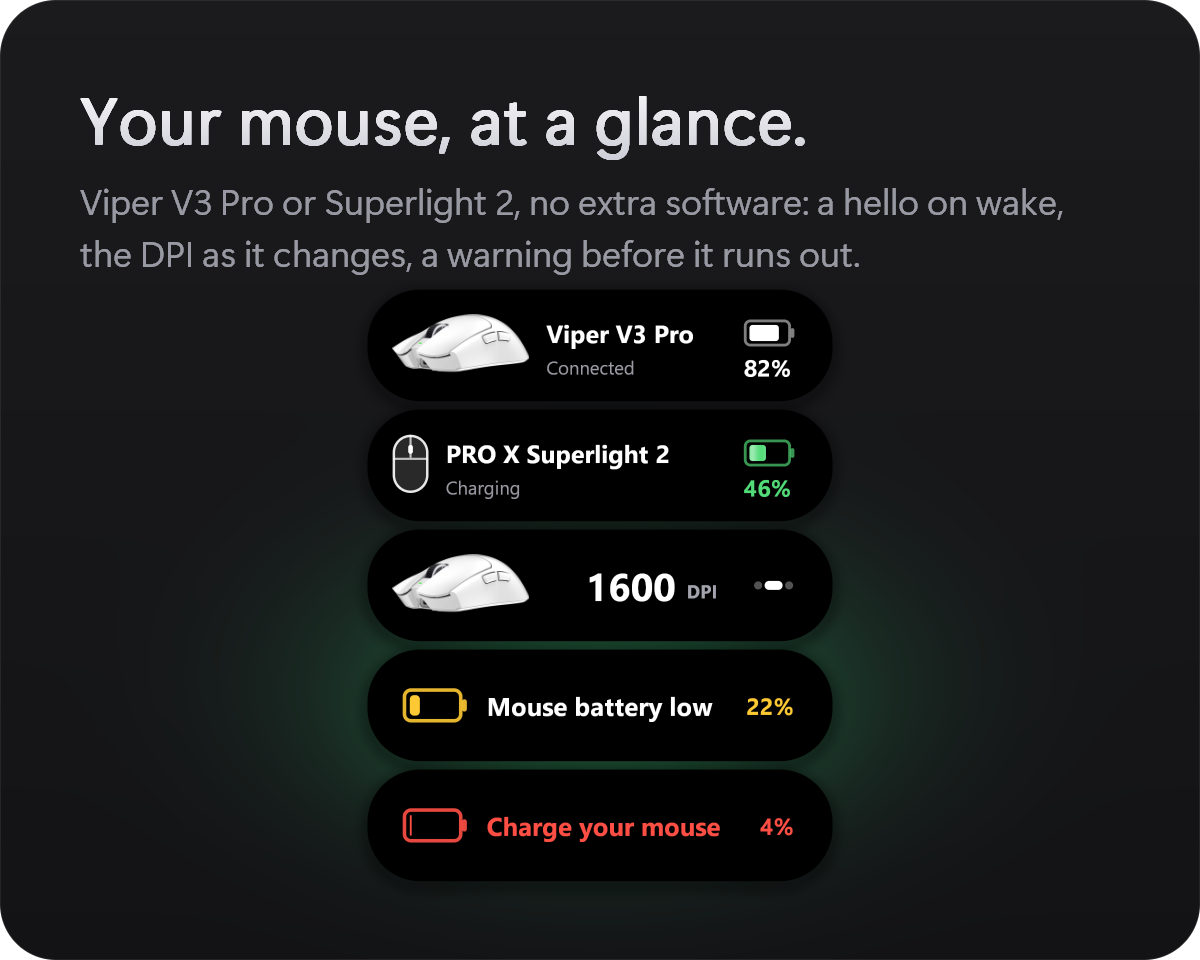
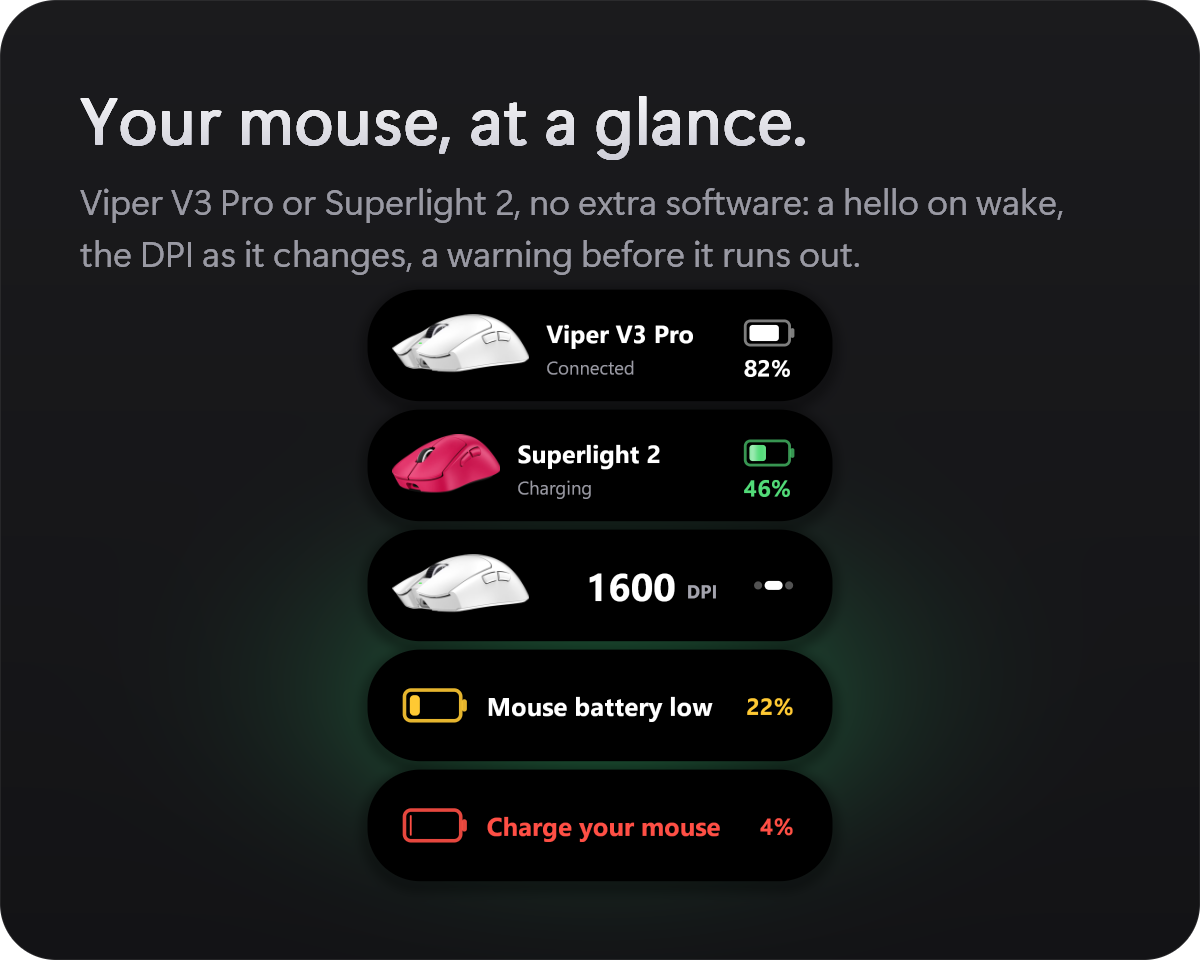
Superlight 2: its own photo (superlight2side) instead of a drawn mouse

Changed region(s): [[0.3083, 0.4375, 0.555, 0.5312]]

diff --git a/src/render.rs b/src/render.rs
@@ -316,30 +316,15 @@ fn picture_at(p: &mut Px, pic: &Picture, x: f32, y: f32, h: f32, unit: f32, alph
     }
 }
 
-/// How wide the mouse is drawn at height `h`: its picture, or the drawn mouse.
+/// How wide the mouse's picture is at height `h`.
 fn art_width(m: &MouseView, h: f32) -> f32 {
-    m.picture.map_or(h * 0.62, |pic| h * pic.aspect())
+    h * m.picture.map_or(2.0, |pic| pic.aspect())
 }
 
-/// The mouse, `h` tall, its left edge at x = 0 and centered on y = 0: its picture, or (a model without one) a
-/// mouse seen from above, drawn: body, the split between the buttons, the wheel.
-#[allow(clippy::too_many_arguments)]
-fn mouse_art(p: &mut Px, m: &MouseView, x: f32, y: f32, h: f32, unit: f32, alpha: f32, pal: &Palette, aa: f32) {
-    let w = art_width(m, h);
-    if x < -1.0 || x > w + 1.0 || y.abs() > h / 2.0 + 1.0 || alpha <= 0.003 {
-        return;
-    }
-    if let Some(pic) = m.picture {
-        picture_at(p, pic, x - w / 2.0, y, h, unit, alpha, pal.light);
-        return;
-    }
-    let (x, hw, hh) = (x - w / 2.0, w / 2.0 - 1.0, h / 2.0 - 1.0);
-    let body = rrect(x, y, hw, hh, hw);
-    p.over(pal.mix(0.16), alpha * cov(body, aa)); // a faint fill, then the outline
-    p.over(pal.fg, alpha * 0.9 * cov(body.abs() - 0.8, aa));
-    let split = seg(x, y, (0.0, -hh), (0.0, -hh * 0.18), 0.7).min(seg(x, y, (-hw * 0.96, -hh * 0.18), (hw * 0.96, -hh * 0.18), 0.7));
-    p.over(pal.fg, alpha * 0.7 * cov(split, aa));
-    p.over(pal.fg, alpha * cov(rrect(x, y + hh * 0.52, 1.5, hh * 0.16, 1.5), aa)); // the wheel
+/// The mouse's picture, `h` tall, its left edge at x = 0 and centered on y = 0.
+fn mouse_art(p: &mut Px, m: &MouseView, x: f32, y: f32, h: f32, unit: f32, alpha: f32, light: bool) {
+    let Some(pic) = m.picture else { return };
+    picture_at(p, pic, x - art_width(m, h) / 2.0, y, h, unit, alpha, light);
 }
 
 /// A line of text `view` wide, centered on (x, y) = 0, that rolls: `dy` moves it, `a` fades it, and it is cut
@@ -359,7 +344,7 @@ fn mouse_dpi_content(p: &mut Px, tx: f32, ty: f32, aa: f32, s: &Scene, ca: f32) 
     let ry = ty - s.h / 2.0;
     let e = 1.0 - (1.0 - m.intro.clamp(0.0, 1.0)).powi(3);
 
-    mouse_art(p, m, tx - 16.0 + (1.0 - e) * 14.0, ry + 1.0, 38.0, unit, ca * e, pal, aa);
+    mouse_art(p, m, tx - 16.0 + (1.0 - e) * 14.0, ry + 1.0, 38.0, unit, ca * e, pal.light);
 
     // the number and "DPI" after it, centered between the picture and the stage markers
     let right = s.w - 18.0 - 10.0 * m.stages.max(1) as f32;
@@ -427,7 +412,7 @@ fn mouse_link_content(p: &mut Px, tx: f32, ty: f32, aa: f32, s: &Scene, ca: f32)
     let e = 1.0 - (1.0 - m.intro.clamp(0.0, 1.0)).powi(3);
 
     // the picture glides in from the left
-    mouse_art(p, m, tx - 16.0 + (1.0 - e) * 22.0, ry + 1.0, 38.0, unit, ca * e, pal, aa);
+    mouse_art(p, m, tx - 16.0 + (1.0 - e) * 22.0, ry + 1.0, 38.0, unit, ca * e, pal.light);
     let left = 16.0 + art_width(m, 38.0) + 10.0;
     let right = s.w - 72.0;
     if let Some(title) = m.title {

diff --git a/src/mouse.rs b/src/mouse.rs
@@ -53,7 +53,7 @@ impl Model {
     pub fn name(self) -> &'static str {
         match self {
             Model::ViperV3Pro => "Viper V3 Pro",
-            Model::Superlight2 => "PRO X Superlight 2",
+            Model::Superlight2 => "Superlight 2",
         }
     }
 }
@@ -575,26 +575,26 @@ impl Picture {
     }
 }
 
-/// The mouse's picture: the Viper V3 Pro from the side, decoded once (on a thread of its own: the decoder is
-/// WinRT). The Superlight has none: the capsule draws a mouse instead.
+/// The mouse from the side, decoded once per model (on a thread of its own: the decoder is WinRT).
 pub fn picture(model: Model) -> Option<&'static Picture> {
-    if model != Model::ViperV3Pro {
-        return None;
-    }
-    static PICTURE: OnceLock<Option<Picture>> = OnceLock::new();
-    PICTURE.get_or_init(|| std::thread::spawn(decode).join().ok().flatten()).as_ref()
+    static VIPER: OnceLock<Option<Picture>> = OnceLock::new();
+    static SUPERLIGHT: OnceLock<Option<Picture>> = OnceLock::new();
+    let (cell, png): (&OnceLock<Option<Picture>>, &'static [u8]) = match model {
+        Model::ViperV3Pro => (&VIPER, include_bytes!("../assets/viper-side.png")),
+        Model::Superlight2 => (&SUPERLIGHT, include_bytes!("../assets/superlight2-side.png")),
+    };
+    cell.get_or_init(|| std::thread::spawn(move || decode(png)).join().ok().flatten()).as_ref()
 }
 
-fn decode() -> Option<Picture> {
+fn decode(png: &[u8]) -> Option<Picture> {
     use windows::Graphics::Imaging::{BitmapAlphaMode, BitmapDecoder, BitmapPixelFormat};
     use windows::Storage::Streams::{DataWriter, InMemoryRandomAccessStream};
-    static PNG: &[u8] = include_bytes!("../assets/viper-side.png");
     unsafe {
         let _ = windows::Win32::System::Com::CoInitializeEx(None, windows::Win32::System::Com::COINIT_MULTITHREADED);
     }
     let stream = InMemoryRandomAccessStream::new().ok()?;
     let writer = DataWriter::CreateDataWriter(&stream).ok()?;
-    writer.WriteBytes(PNG).ok()?;
+    writer.WriteBytes(png).ok()?;
     writer.StoreAsync().ok()?.get().ok()?;
     writer.DetachStream().ok()?;
     stream.Seek(0).ok()?;
@@ -625,6 +625,8 @@ mod tests {
         println!("battery {:?}", m.battery());
         println!("{:?} for 4 reads", t.elapsed());
         let p = super::picture(super::Model::ViperV3Pro).expect("picture");
+        let q = super::picture(super::Model::Superlight2).expect("superlight picture");
+        println!("superlight aspect {}", q.aspect());
         println!("picture aspect {} centre {:?}", p.aspect(), p.sample(0.5, 0.5, 40.0));
     }
 }

diff --git a/src/demo.rs b/src/demo.rs
@@ -716,7 +716,7 @@ pub fn run(dir: &str) {
     let charge_img = {
         let mut sc = capsule(ui::MOUSE_LINK, Kind::MouseLink, 1.55);
         sc.marq = 0.62;
-        sc.mouse = Some(MouseView { picture: None, title: keep(raster("PRO X Superlight 2", -64, 700)), sub: charging_txt, percent: keep(raster("46%", -60, 700)), charging: true, ..base(0, 0.46) });
+        sc.mouse = Some(MouseView { picture: crate::mouse::picture(crate::mouse::Model::Superlight2), title: keep(raster("Superlight 2", -64, 700)), sub: charging_txt, percent: keep(raster("46%", -60, 700)), charging: true, ..base(0, 0.46) });
         shoot(&sc)
     };
     let dpi_img = mouse(Kind::MouseDpi, ui::MOUSE_DPI, MouseView { dpi, dpi_label, stage: 1.0, ..base(0, 0.82) });

diff --git a/src/logitech.rs b/src/logitech.rs
@@ -1,5 +1,5 @@
 // Logitech PRO X SUPERLIGHT 2 over HID++ 2.0 (no G HUB): battery, DPI and wake-ups, reads only. Driven by the
-// mouse thread in mouse.rs, which treats it like the Razer mouse.
+// mouse thread in mouse.rs, which treats it like the Razer mouse; only the talking is here.
 //
 // HID++ long reports (id 0x11, 20 bytes) go to and come from the receiver's (or the cable's) vendor collection
 // (usage page 0xFF00, usage 2):
